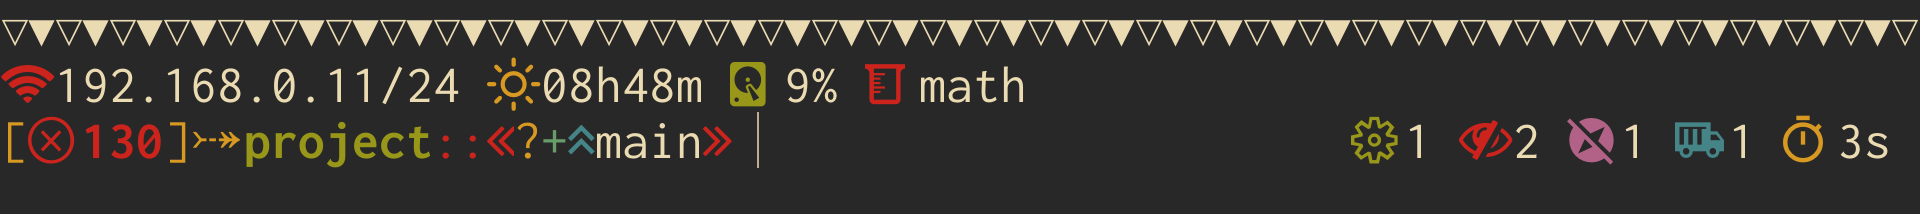
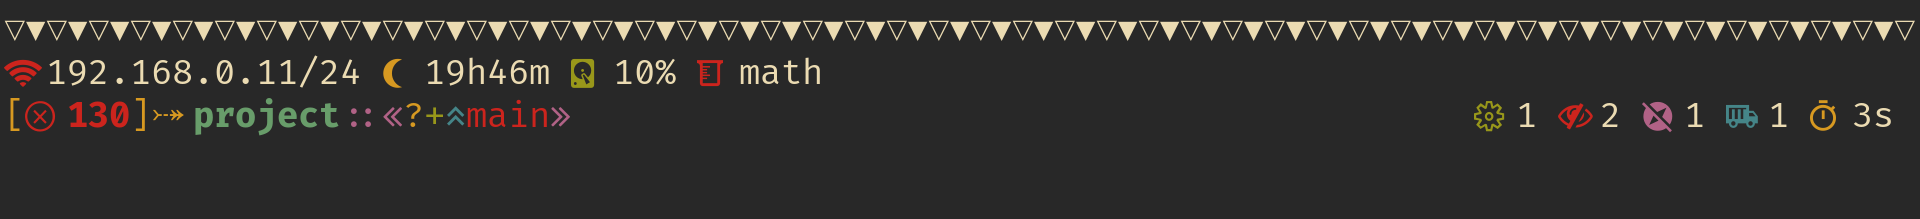
chore: update directory and git modules colors.

Changed region(s): [[0.0, 0.2523, 0.5312, 0.785], [0.0, 0.0841, 1.0, 0.2243], [0.6875, 0.4486, 1.0, 0.757]]

diff --git a/README.md b/README.md
@@ -1,6 +1,8 @@
 # River Dreams
 
-The ZSH theme that you have been dreaming for a long time. It will do the work in showing how you are cool and nerd while providing you useful information about your environment.
+The ZSH theme that you have been dreaming for a long time. It will do the work
+in showing how you are the best terminal wizard out there while providing you
+useful information about your development environment.
 
 
 ## Preview
